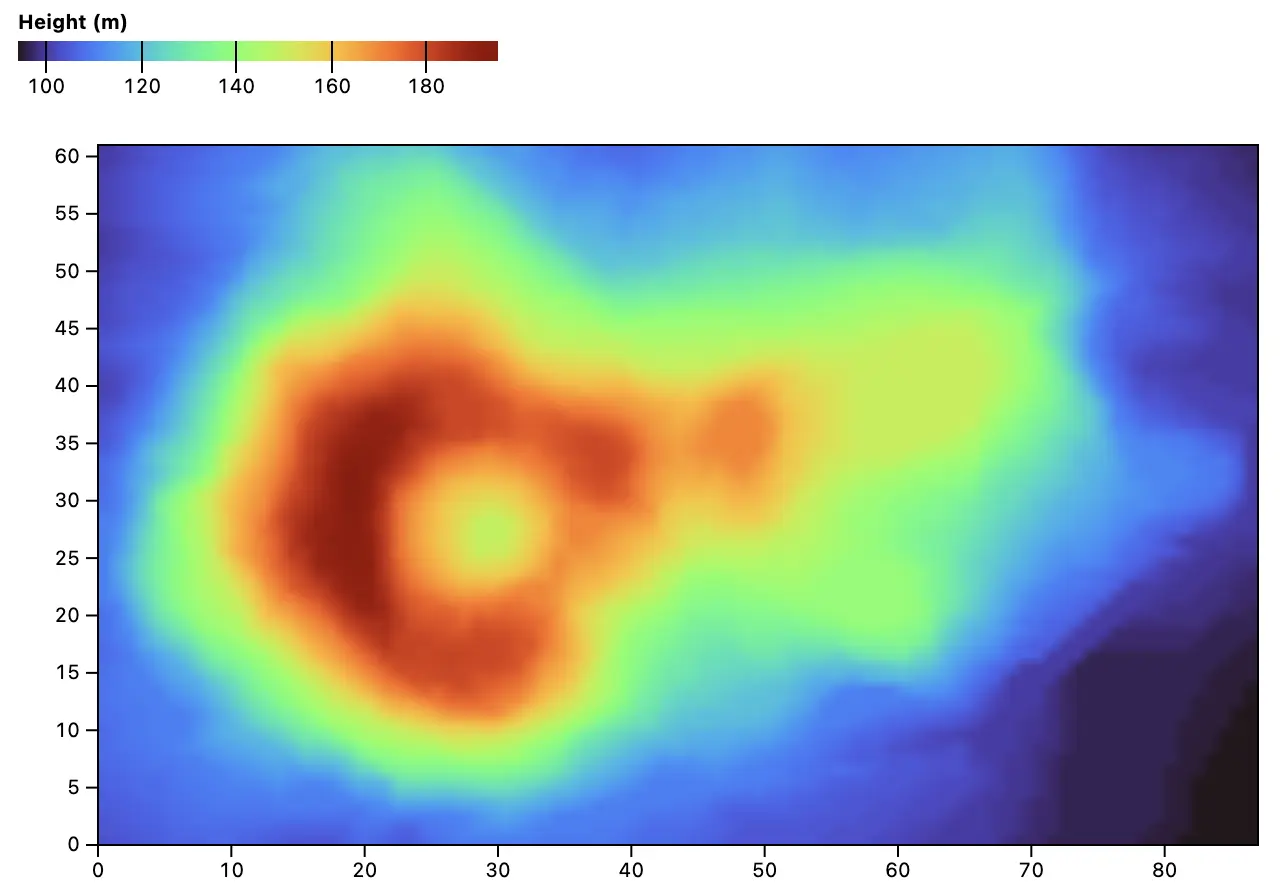
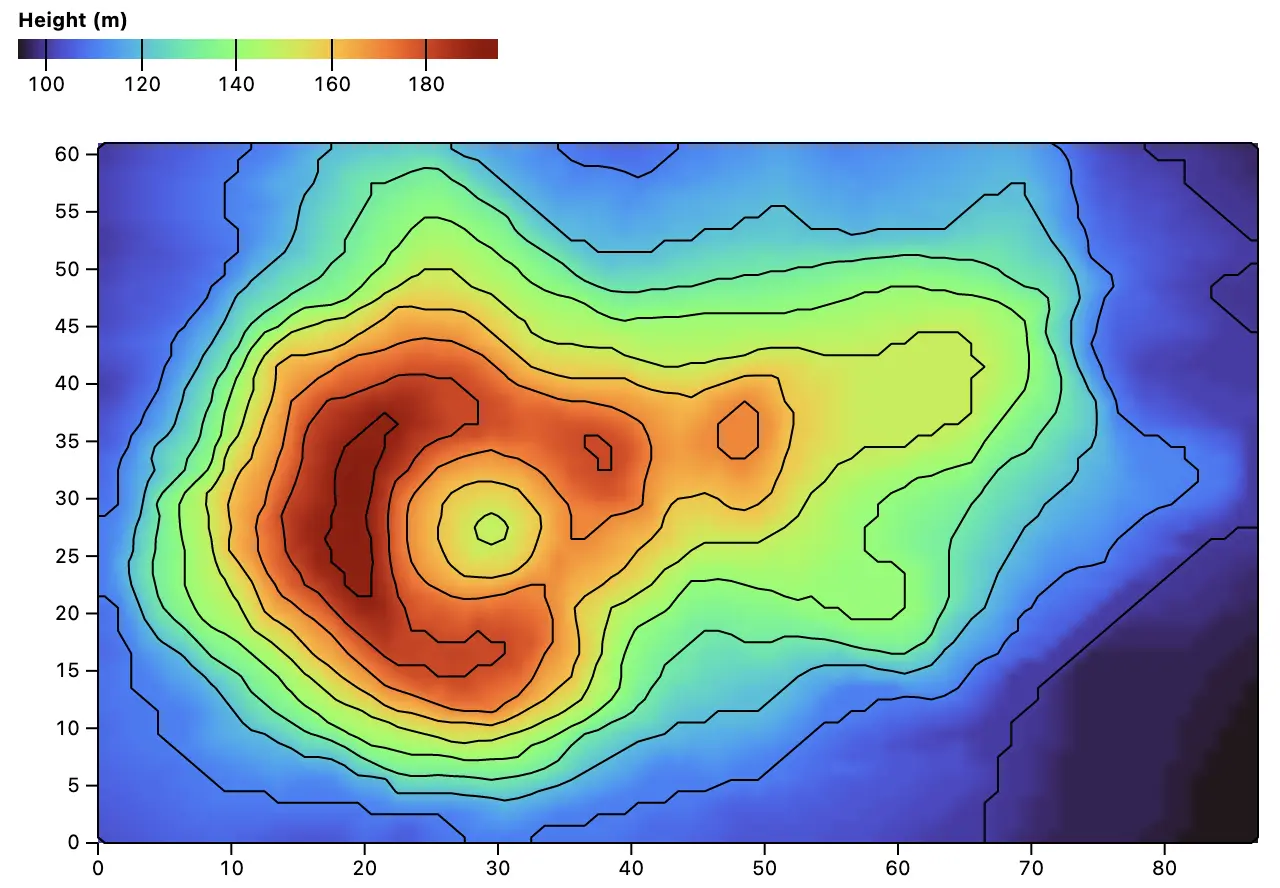
Update CHANGELOG

diff --git a/CHANGELOG.md b/CHANGELOG.md
@@ -4,7 +4,7 @@
 
 *Not yet released. These are forthcoming changes in the main branch.*
 
-The new [raster mark](./README.md#raster) generates a raster image from spatial samples. For example, here is a gridded digital elevation model of Maungawhau, R’s [`volcano` dataset](./test/data/volcano.json):
+The new [raster mark](./README.md#raster) and [contour mark](./README.md#contour) generate a raster image and smooth contours, respectively, from spatial samples. For example, the plot below shows a gridded digital elevation model of Maungawhau (R’s [`volcano` dataset](./test/data/volcano.json)) with contours every 10 meters:
 
 [<img src="./img/volcano.webp" width="640" alt="A heatmap of Maungawhau’s topography, showing the circular caldera and surrounding slopes">](https://observablehq.com/@observablehq/plot-raster)
 
@@ -13,12 +13,12 @@ Plot.plot({
   color: {legend: true, label: "Height (m)"},
   marks: [
     Plot.raster(volcano.values, {width: volcano.width, height: volcano.height}),
-    Plot.frame()
+    Plot.contour(volcano.values, {width: volcano.width, height: volcano.height, interval: 10})
   ]
 })
 ```
 
-For non-gridded or sparse data, the raster mark implements a variety of spatial interpolation methods to populate the raster grid. The *barycentric* interpolation method, shown below with data from the [Great Britain aeromagnetic survey](https://www.bgs.ac.uk/datasets/gb-aeromagnetic-survey/), uses barycentric coordinates from a Delaunay triangulation of the samples (small black dots).
+For non-gridded or sparse data, the raster and contour marks implement a variety of spatial interpolation methods to populate the raster grid. The *barycentric* interpolation method, shown below with data from the [Great Britain aeromagnetic survey](https://www.bgs.ac.uk/datasets/gb-aeromagnetic-survey/), uses barycentric coordinates from a Delaunay triangulation of the samples (small black dots).
 
 [<img src="./img/ca55.webp" width="650" alt="A map showing the varying intensity of the magnetic field as periodically observed from an airplane flying in an approximate grid pattern">](https://observablehq.com/@observablehq/plot-raster)
 
@@ -37,7 +37,9 @@ Plot.plot({
 })
 ```
 
-Naturally, the raster mark works with Plot’s [projection system](./README.md#projection-options), allowing spatial samples to be shown in any geographic projections and in conjunction with other geographic data. The *equirectangular* projection is the natural choice for this gridded water vapor data from [NASA Earth Observations](https://neo.gsfc.nasa.gov/view.php?datasetId=MYDAL2_M_SKY_WV&date=2022-11-01).
+TK, alternate visualization as contours.
+
+Naturally, the raster and contour mark work with Plot’s [projection system](./README.md#projection-options), allowing spatial samples to be shown in any geographic projections and in conjunction with other geographic data. The *equirectangular* projection is the natural choice for this gridded water vapor data from [NASA Earth Observations](https://neo.gsfc.nasa.gov/view.php?datasetId=MYDAL2_M_SKY_WV&date=2022-11-01).
 
 [<img src="./img/water-vapor.png" width="650" alt="A map of global atmospheric water vapor, showing a higher concentration of water vapor near the equator">](https://observablehq.com/@observablehq/plot-raster)
 
@@ -67,7 +69,7 @@ Plot.plot({
 
 TK random-walk for interpolating categorical data.
 
-The *fill* and *fillOpacity* channels may alternatively be specified as continuous functions *f*(*x*, *y*) to be evaluated at each pixel centroid of the raster grid (without interpolation).
+The *fill* and *fillOpacity* channels may alternatively be specified as continuous functions *f*(*x*, *y*) to be evaluated at each pixel centroid of the raster grid (without interpolation). TODO Show Mandelbrot instead.
 
 [<img src="./img/heatmap.png" width="640" alt="A heatmap of the trigonometric function atan2(y, x)">](https://observablehq.com/@observablehq/plot-raster)
 
@@ -75,7 +77,7 @@ The *fill* and *fillOpacity* channels may alternatively be specified as continuo
 Plot.raster({fill: (x, y) => Math.atan2(y, x), x1: -1.66, y1: -1, x2: 1.66, y2: 1}).plot()
 ```
 
-The new contour mark…
+TODO show spike map example.
 
 The [vector mark](./README.md#vector) now supports the **shape** constant option. The built-in shapes are *arrow* (default) and *spike*. A custom shape can also be implemented, returning the corresponding SVG path data for the desired shape. The new [spike convenience constructor](./README.md#plotspikedata-options) creates a vector suitable for spike maps. The vector mark also now supports an **r** constant option to further customize the shape.
 
